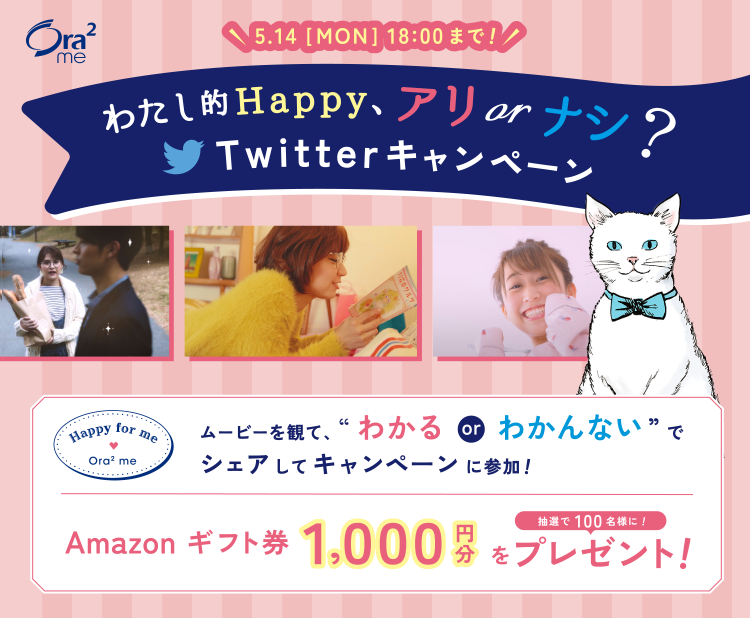
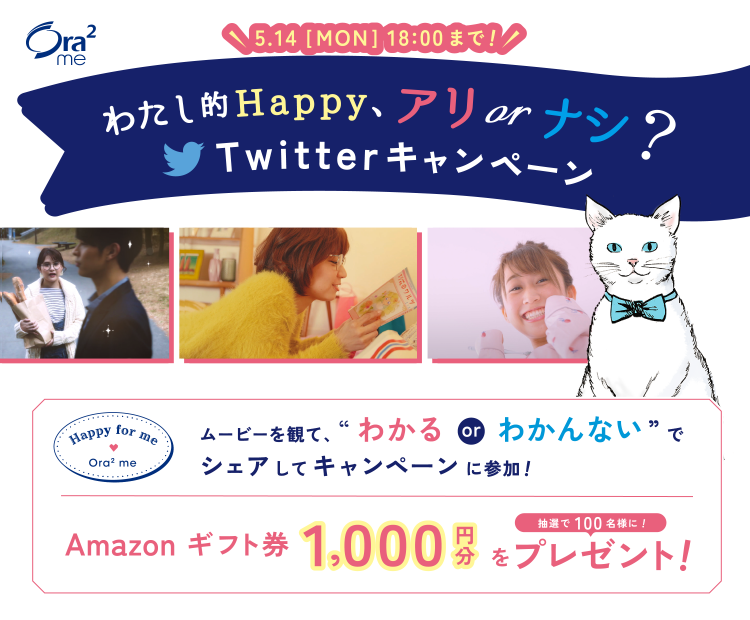
Updates

diff --git a/me/ambassador/css/base.css b/me/ambassador/css/base.css
@@ -504,7 +504,7 @@ figure { margin: 0; padding: 0; }
 
 /*--------- footer ---------*/
 #main {
-  background: url(../../../images/bg_footer01_sp.png) repeat-x 0 bottom / 100% auto;
+  background: url(http://jp.ora2.com/images/bg_footer01_sp.png) repeat-x 0 bottom / 100% auto;
   padding-bottom: 44vw;
 }
 #footer .footer01 {
@@ -544,7 +544,7 @@ figure { margin: 0; padding: 0; }
   padding: 0 16px;
 }
 .fLink li a {
-  background: url(../../../images/arrow01.png) no-repeat 98% center;
+  background: url(http://jp.ora2.com/images/arrow01.png) no-repeat 98% center;
   background-size: 22px 6px;
   color: #00276f;
   text-decoration: none;
@@ -598,7 +598,7 @@ figure { margin: 0; padding: 0; }
 }
 @media all and (min-width: 768px) {
   #main {
-    background: url(../../../images/bg_footer01_pc.png) repeat-x 0 bottom;
+    background: url(http://jp.ora2.com/images/bg_footer01_pc.png) repeat-x 0 bottom;
     padding-bottom: 295px;
     min-width: 1200px;
   }
@@ -638,7 +638,7 @@ figure { margin: 0; padding: 0; }
     position: relative;
   }
   #footer .fTxt {
-    background: url(../../../images/icon_flag.jpg) no-repeat 0 0 / 30px 20px;
+    background: url(http://jp.ora2.com/images/icon_flag.jpg) no-repeat 0 0 / 30px 20px;
     position: absolute;
     right: 45px;
     bottom: 4px;

diff --git a/me/ambassador/index.html b/me/ambassador/index.html
@@ -487,7 +487,7 @@ height="0" width="0" style="display:none;visibility:hidden"></iframe></noscript>
     </section>
 
     <div class="ad-banner">
-      <a href="http://jp.ora2.com/me/happyforme/">
+      <a href="http://ambassador.ora2campaign.com/">
         <img src="images/ad-banner.png" class="pcOnly" alt="オフィスで マウスウォッシュ アンバサダープロジェクト2018.3.30 (FRI)10:00→4.18(WED) 18:00">
         <img src="images/ad-banner-sp.png" class="spOnly" alt="オフィスで マウスウォッシュ アンバサダープロジェクト2018.3.30 (FRI)10:00→4.18(WED) 18:00">
       </a>

diff --git a/me/ambassador/css/top.css b/me/ambassador/css/top.css
@@ -380,6 +380,9 @@
     transform: rotate(-45deg);
   }
   .ad-banner {
+    background-image: url('../images/bg05-tile.png');
+    background-position: top left;
+    background-repeat: repeat;
     display: block;
     margin: 42px auto -15px;
     position: relative;
@@ -723,7 +726,7 @@
     margin-top: 64px;
     margin-bottom: 20px;
   }
-  .ad-banner { margin: 32px auto 50px;}
+  .ad-banner { background-image: url('../images/bg05-tile-sp.png'); margin: 32px auto 50px;}
   .ad-banner img { width: 100%; }
   .ad-info {
     background-image: url(../images/bg05_sp.png);
